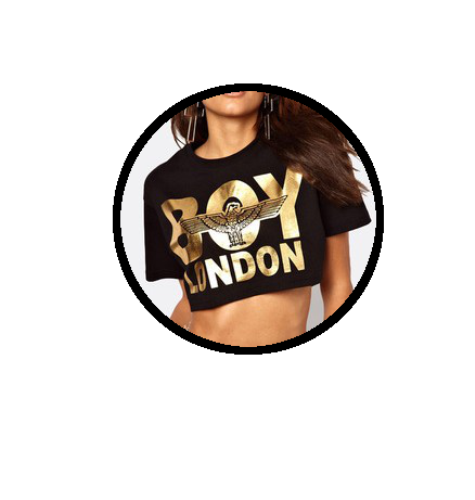
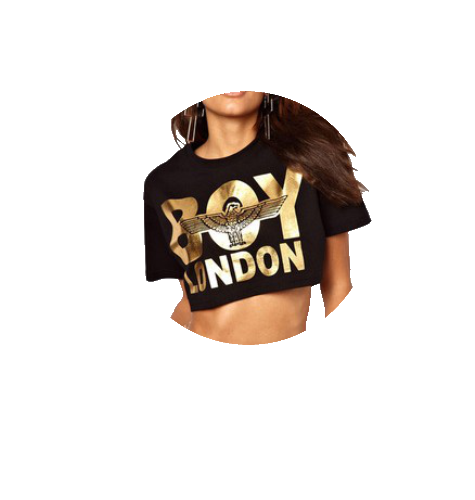
fixed fashion animations for small resolutions took off black circle from shirt image, replaced with circular div with border color that can be set in code

Changed region(s): [[0.2358, 0.15, 0.8253, 0.72]]

diff --git a/examples/apple.html b/examples/apple.html
@@ -373,41 +373,69 @@
 				z-index:1;
 			}
 
-			#circle{
+			#loadingCircle{
 				position:absolute;
-				left:111px;
-				top:81px;
+				left:11.1%;
+				top:16.2%;
 				z-index:2;
+				display:block;
+			}
+			
+			.circle{
+				border-radius: 100%;
+				background-color: transparent;
+				border: 3px solid #AAA;
+			}
+			
+			#shirtCircle{
+				position:absolute;
+				left:24%;
+				top:16.5%;
+				width:52%;
+				height:50%;
+				z-index:2;
+				display:block;
+				opacity:0;
 			}
 
 			#girl{
 				position:absolute;
-				height:500px;
-				width:475px;
+				height:100%;
+				width:47.5%;
 				z-index:0;
+				display:block;
 			}
 
 			#shirt{
 				position:absolute;
 				z-index:1;
-				height:500px;
-				width:475px;				
+				height:100%;
+				width:47.5%;				
 				opacity:0;
+				display:block;
 			}
 
+			#shirt img{
+				height:100%;
+				width:100%;
+				z-index:0;
+			}
+			
 			#cart{
 				position:absolute;
 				z-index:4;
-				width:300px;
-				height:300px;
+				width:30%;
+				height:60%;
+				display:block;
 			}
 			
 			#fashionText{
 				position:absolute;
 				z-index:4;
 				font-size:40px;
-				left:450px;
-				top:50px;
+				left:45%;
+				top:10%;
+				display:block;
 			}
 			/* Section 2
 			* --------------------------------------- */
@@ -513,7 +541,6 @@
 				color:#fff;
 				cursor:pointer;
 				width:70px;
-				outline
 			}
 
 			/* Section 4
@@ -609,20 +636,15 @@ var console = { log: function() {} };
 			$(document).ready(function() {
 				var medicalInterval;
 
-				$('#circle').circleProgress({
-							value: 1,
-							size: 275,
-							thickness: 10,
-							emptyFill: 'rgba(0,0,0,0)',
-							fill: {color: "black"},							
-						});
 				
-				$('#circle').on('circle-animation-end', function(event){
+				
+				$('#loadingCircle').on('circle-animation-end', function(event){
 							$('#shirt').css('opacity',1);
-							$('#circle').css('opacity',0);
-							$('#shirt').animate({left:'600px',width:'250px',height:'250px',top:'125px'},'slow');
-							$('#cart').animate({top:'200px'}, 'slow');
-							$('#shirt').animate({top:'200px'}, 'slow', function(){
+							$('#loadingCircle').css('opacity',0);
+							$('#shirtCircle').css('opacity',1);
+							$('#shirt').animate({left:'60%',width:'25%',height:'50%',top:'25%'},'slow');
+							$('#cart').animate({top:'40%'}, 'slow');					
+							$('#shirt').animate({top:'40%'}, 'slow', function(){
 								$('#fashionText').animate({opacity:1});
 							});
 						});
@@ -788,16 +810,30 @@ var console = { log: function() {} };
 					height: '90%',
 					scrolling: 'no',
 					afterLoad: function(){
-						$('#cart').css('left',550);
-						$('#cart').css('top',600);
-						$('#circle').css('opacity',1)
-						$('#shirt').css('opacity',0);
+						$('#cart').css('left','55%');
+						$('#cart').css('top','120%');
+						$('#loadingCircle').css('opacity',0)
+						$('#shirtCircle').css('opacity',0);
+						$('#shirt').css('opacity',1);
 						$('#shirt').css('left',0);
 						$('#shirt').css('top',0);
-						$('#shirt').css('width',475);
-						$('#shirt').css('height',500);							
-						$('#circle').circleProgress('redraw');	
-						$('#fashionText').css('opacity',0);
+						$('#shirt').css('width','47.5%');
+						$('#shirt').css('height','100%');
+						$('#fashionText').css('opacity',0);						
+						setTimeout(function(){
+							$('#loadingCircle').css('opacity',1);
+							var thick = 3;
+							var circleWidth = $('#shirt').width()*0.55;
+							var circleHeight = $('#shirt').height()*0.52;
+							$('#loadingCircle').circleProgress({
+								value: 1,
+								sizeX: circleWidth,
+								sizeY: circleHeight,
+								thickness: thick,
+								emptyFill: 'rgba(0,0,0,0)',
+								fill: {color: "#AAA"}
+							});
+						},1000);								  
 					}
 				});
 
@@ -846,6 +882,9 @@ var console = { log: function() {} };
                         if (nextIndex ==3 && direction == 'down'){
                             $('#section2 .wrap').fadeIn(3000);
                         }
+						if (index == 2){
+							$.fancybox.close();
+						}
 					},
                     
 					afterRender: function(){
@@ -1027,10 +1066,13 @@ var console = { log: function() {} };
 			</div></div>
 		<div style="display:none"><div id="fashionModal" class="modal">
 			<img id="girl" src="imgs/fashion2.png"/>
-			<img id="shirt" src="imgs/temp/boylondonshirt.png"/>
+			<div id="shirt">				
+				<img src="imgs/temp/boylondonshirt.png"/>
+				<div class="circle" id="shirtCircle"></div>
+			</div>
 			<img id="cart" src="imgs/temp/blackcart.png"/>
 			<div id="fashionText">Single swipe purchasing.</div>
-			<div id="circle"></div>
+			<div id="loadingCircle"></div>
 			</div></div>
 		<div style="display:none"><div id="automotiveModal" class="modal">
 			<img class="modalBackground" src="imgs/temp/automobile.gif"/>

diff --git a/circle-progress.js b/circle-progress.js
@@ -23,8 +23,8 @@ License: MIT
          * Size of the circle / canvas in pixels
          * @type {number}
          */
-        size: 100.0,
-
+        sizeX: 100.0,
+		sizeY: 100.0,
         /**
          * Initial angle for 0.0 value in radians
          * @type {number}
@@ -143,7 +143,7 @@ License: MIT
          */
         init: function(config) {
             $.extend(this, config);
-            this.radius = this.size / 2;
+            this.radius = this.sizeX / 2;
             this.initWidget();
             this.initFill();
             this.draw();
@@ -154,9 +154,10 @@ License: MIT
          */
         initWidget: function() {
             var canvas = this.canvas = this.canvas || $('<canvas>').prependTo(this.el)[0];
-            canvas.width = this.size;
-            canvas.height = this.size;
+            canvas.width = this.sizeX;
+            canvas.height = this.sizeY;
             this.ctx = canvas.getContext('2d');
+			this.ctx.scale(1, this.sizeY/this.sizeX);
         },
 
         /**
@@ -168,7 +169,7 @@ License: MIT
             var self = this,
                 fill = this.fill,
                 ctx = this.ctx,
-                size = this.size;
+                size = this.sizeX;
 
             if (!fill)
                 throw Error("The fill is not specified!");
@@ -226,9 +227,9 @@ License: MIT
 
             function setImageFill() {
                 var bg = $('<canvas>')[0];
-                bg.width = self.size;
-                bg.height = self.size;
-                bg.getContext('2d').drawImage(img, 0, 0, size, size);
+                bg.width = self.sizeX;
+                bg.height = self.sizeX;
+                bg.getContext('2d').drawImage(img, 0, 0, sizeX, sizeX);
                 self.arcFill = self.ctx.createPattern(bg, 'no-repeat');
                 self.drawFrame(self.lastFrameValue);
             }
@@ -247,7 +248,7 @@ License: MIT
          */
         drawFrame: function(v) {
             this.lastFrameValue = v;
-            this.ctx.clearRect(0, 0, this.size, this.size);
+            this.ctx.clearRect(0, 0, this.sizeX, this.sizeX);
             this.drawEmptyArc(v);
             this.drawArc(v);
         },
@@ -339,7 +340,7 @@ License: MIT
          * @returns {number}
          */
         getThickness: function() {
-            return $.isNumeric(this.thickness) ? this.thickness : this.size / 14;
+            return $.isNumeric(this.thickness) ? this.thickness : this.sizeX / 14;
         }
     };
 
